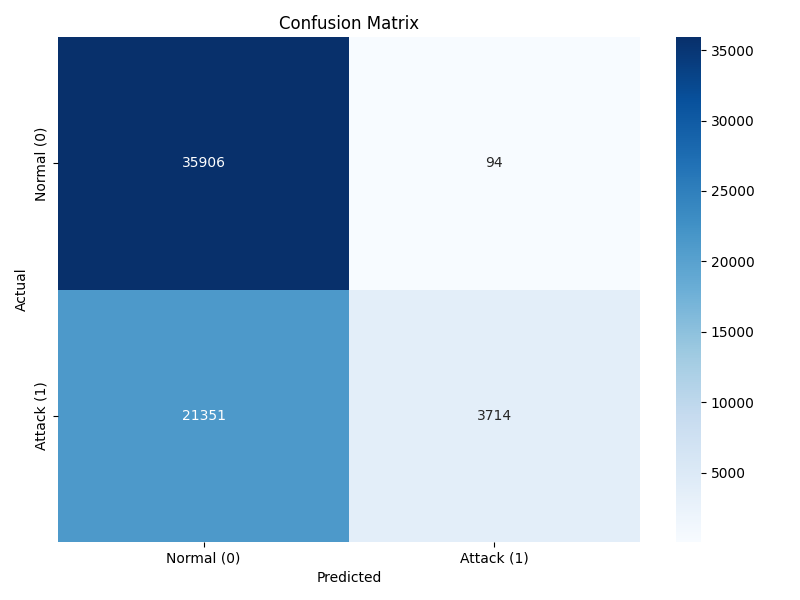
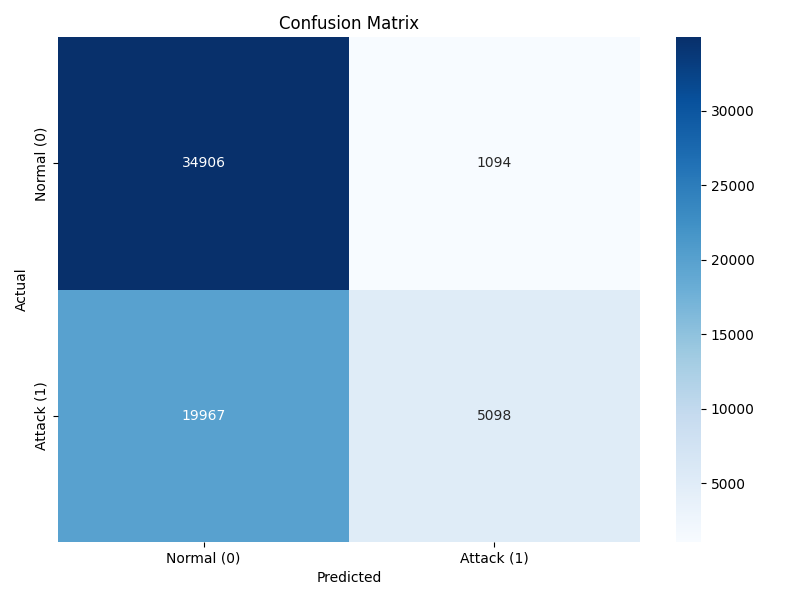
Implement V2 rule-based engine for attack detection and evaluation with confusion matrix visualization

diff --git a/src/rulesV2.py b/src/rulesV2.py
@@ -1,0 +1,85 @@
+import pandas as pd
+import re
+import urllib.parse
+import matplotlib.pyplot as plt
+import seaborn as sns
+from sklearn.metrics import classification_report, confusion_matrix, accuracy_score
+
+# 1. Load the dataset
+df = pd.read_csv('../data/cleaned/csic_cleaned_final.csv')
+
+# 2. Reconstruct the full request payload
+df['full_request'] = df['url_path'].fillna('') + '?' + df['query_string'].fillna('') + ' ' + df['body'].fillna('')
+
+# 3. Expanded Ruleset (V2)
+rules = {
+    "SQL Injection": [
+        r"(\%27)|(\')|(\-\-)|(\%23)|(#)",
+        r"(?i)(union\s+select)",
+        r"(?i)(or\s+1=1)",
+        r"(?i)(select\s+.*\s+from|insert\s+into|drop\s+table|update\s+.*\s+set|exec(\s|\()|declare(\s|\())" # Advanced SQLi
+    ],
+    "XSS": [
+        r"(<script>)",
+        r"(?i)(javascript:)",
+        r"(<img.*onerror=)",
+        r"(?i)(<svg|<iframe|<body|<input)",    # Advanced XSS tags
+        r"(?i)(alert\(|prompt\(|confirm\()",   # Direct JS execution
+        r"(?i)(\s+on[a-z]+={1})"               # Event handlers
+    ],
+    "CRLF Injection": [
+        r"(?i)(%0d|%0a|\r|\n)(set-cookie:|content-length:|location:)" # HTTP Splitting
+    ],
+    "Parameter Tampering": [
+        r"(\.\*\?)",      # Regex injection
+        r"id=\d+[^0-9&]"  # Tampering with expected integer structures
+    ],
+    "Path Traversal": [
+        r"(\.\./)",
+        r"(\.\.\\)",
+        r"(%2e%2e%2f)"
+    ]
+}
+
+# Compile regexes for speed
+compiled_rules = [re.compile(pattern) for patterns in rules.values() for pattern in patterns]
+
+def detect_attack(request):
+    # STEP 1: Decode the payload first to catch obfuscated/encoded attacks
+    try:
+        decoded_request = urllib.parse.unquote(request)
+    except Exception:
+        decoded_request = request
+
+    # STEP 2: Scan BOTH the raw request and the decoded request
+    for pattern in compiled_rules:
+        if pattern.search(request) or pattern.search(decoded_request):
+            return 1 # Attack found
+            
+    return 0 # No attack found
+
+# 4. Run the Engine against the dataset
+print("Applying V2 rule-based engine...")
+df['predicted_label'] = df['full_request'].apply(detect_attack)
+df['label'] = df['label'].astype(int)
+
+# 5. Evaluate the results
+print("\n--- V2 Engine Evaluation Results ---")
+
+# Evaluate metrics
+cm = confusion_matrix(df['label'], df['predicted_label'])
+print("Confusion Matrix:")
+print(cm)
+
+# Plot confusion matrix
+plt.figure(figsize=(8, 6))
+sns.heatmap(cm, annot=True, fmt='d', cmap='Blues', xticklabels=['Normal (0)', 'Attack (1)'], yticklabels=['Normal (0)', 'Attack (1)'])
+plt.title('Confusion Matrix')
+plt.ylabel('Actual')
+plt.xlabel('Predicted')
+plt.tight_layout()
+plt.savefig('confusion_matrix.png')
+plt.close()
+
+print("\nClassification Report:")
+print(classification_report(df['label'], df['predicted_label'], target_names=['Normal (0)', 'Attack (1)']))
